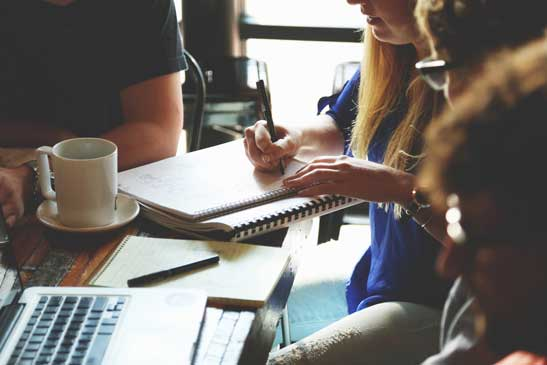
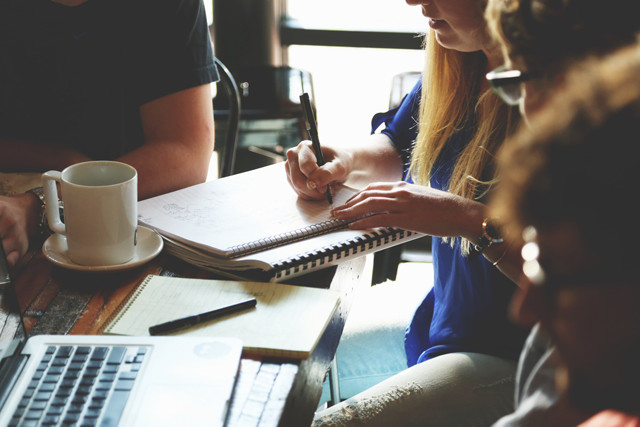
Changed page header images. Optimized more images.

diff --git a/resources/templates/home.html b/resources/templates/home.html
@@ -14,11 +14,7 @@
     <link href='http://fonts.googleapis.com/css?family=Lato:300,400%7CRaleway:100,400,300,500,600,700%7COpen+Sans:400,500,600' rel='stylesheet' type='text/css'>
 
     <script src="https://code.jquery.com/jquery-2.1.4.min.js"></script>
-    <script src="https://cdnjs.cloudflare.com/ajax/libs/tinymce/4.2.6/tinymce.min.js"></script>
     <script src="https://maxcdn.bootstrapcdn.com/bootstrap/3.3.4/js/bootstrap.min.js"></script>
-    <script src="https://cdnjs.cloudflare.com/ajax/libs/typeahead.js/0.11.1/typeahead.jquery.min.js"></script>
-    <script type="text/javascript" src="https://api.filepicker.io/v2/filepicker.js"></script>
-    <script src="/js/dbadmin.js"></script>
     <script src="/js/users-profile.js"></script>
 </head>
 <body>
@@ -99,7 +95,7 @@
         <section class="image-square left bg-secondary pb-sm-64">
             <div class="col-md-6 image">
                 <div class="background-image-holder">
-                    <img alt="image" class="background-image" src="img/meeting.jpg" />
+                    <img alt="image" class="background-image" src="/img/meeting.jpg" />
                 </div>
             </div>
             <div class="col-md-6 col-md-offset-1 content">
@@ -203,7 +199,7 @@
         </section>
         <section class="image-bg parallax overlay">
             <div class="background-image-holder">
-                <img alt="Background Image" class="background-image" src="img/home2.jpg">
+                <img alt="Background Image" class="background-image" src="/img/home2.jpg">
             </div>
             <div class="container">
                 <div class="row mb64 mb-xs-24">
@@ -255,6 +251,9 @@
     <script src="/js/smooth-scroll.min.js"></script>
     <script src="/js/parallax.js"></script>
     <script src="/js/scripts.js"></script>
+    <script type="text/javascript" src="https://api.filepicker.io/v2/filepicker.js"></script>
+    <script src="https://cdnjs.cloudflare.com/ajax/libs/tinymce/4.2.6/tinymce.min.js"></script>
+
 
     {% endblock %}
 

diff --git a/resources/templates/no_sages_partial.html b/resources/templates/no_sages_partial.html
@@ -2,12 +2,12 @@
 
 {% block top-section %}
 
-<h4>We have no tutors in your area. Enter your information below, and we will inform you when we do.</h4>
+<h4>We currently have no tutors in your area. Enter your information below, and we will inform you when we do.</h4>
 
 <form class="text-left">
-	<input type="text" name="first_name" placeholder="Diana" required/>
+	<input type="text" name="first_name" placeholder="Diana" required autofocus/>
 	<input type="text" name="last_name" placeholder="Prince" required />
 	<input type="text" name="email" placeholder="wonderwoman@justiceleague.org" required />
-	<input type="submit" value="Keep Me Inform" />
+	<input type="submit" value="Keep Me Informed" />
 </form>
 {%endblock%}

diff --git a/resources/templates/home_image_slider_partial.html b/resources/templates/home_image_slider_partial.html
@@ -2,7 +2,7 @@
             <ul class="slides">
                 <li class="overlay image-bg">
                     <div class="background-image-holder">
-                        <img alt="image" class="background-image" src="img/man-pencil.jpg" />
+                        <img alt="image" class="background-image" src="/img/man-pencil.jpg" />
                     </div>
                     <div class="container v-align-transform">
                         <div class="row">

diff --git a/resources/templates/about.html b/resources/templates/about.html
@@ -3,9 +3,9 @@
 {% block content %}
 
 <div class="main-container">
-	<section class="page-title page-title-1 image-bg overlay parallax">
+	<section class="page-title page-title-4 image-bg overlay parallax">
 		<div class="background-image-holder">
-			<img alt="Background Image" class="background-image" src="img/cover11.jpg" />
+			<img alt="Background Image" class="background-image" src="/img/cover12.jpg" />
 		</div>
 		<div class="container">
 			<div class="row">

diff --git a/resources/templates/apply.html b/resources/templates/apply.html
@@ -4,7 +4,7 @@
 <div class="main-container">
     <section class="page-title page-title-3 image-bg overlay parallax">
         <div class="background-image-holder">
-            <img alt="Background Image" class="background-image" src="img/meeting.jpg"/>
+            <img alt="Background Image" class="background-image" src="/img/cover11.jpg"/>
         </div>
         <div class="container">
             <div class="row">

diff --git a/resources/templates/sage-profile.html b/resources/templates/sage-profile.html
@@ -4,7 +4,7 @@
 <div class="main-container">
     <section class="page-title page-title-3 image-bg overlay parallax">
         <div class="background-image-holder">
-            <img alt="Background Image" class="background-image" src="img/home2.jpg" />
+            <img alt="Background Image" class="background-image" src="/img/home2.jpg" />
         </div>
         <div class="container">
             <div class="row">

diff --git a/resources/templates/home_become_tutor_partial.html b/resources/templates/home_become_tutor_partial.html
@@ -1,7 +1,7 @@
 <section class="image-square left bg-secondary pb-sm-64">
     <div class="col-md-6 image">
         <div class="background-image-holder">
-            <img alt="image" class="background-image" src="img/people-hands.jpg" />
+            <img alt="image" class="background-image" src="/img/people-hands.jpg" />
         </div>
     </div>
     <div class="col-md-6 col-md-offset-1 content">

diff --git a/resources/templates/home_image_slider_partial_2.html b/resources/templates/home_image_slider_partial_2.html
@@ -1,6 +1,6 @@
 <section class="cover fullscreen image-bg overlay parallax">
     <div class="background-image-holder">
-    <img alt="image" class="background-image" src="img/manpencil.jpg" />
+    <img alt="image" class="background-image" src="/img/manpencil.jpg" />
     </div>
     <div class="container v-align-transform">
         <div class="row">
